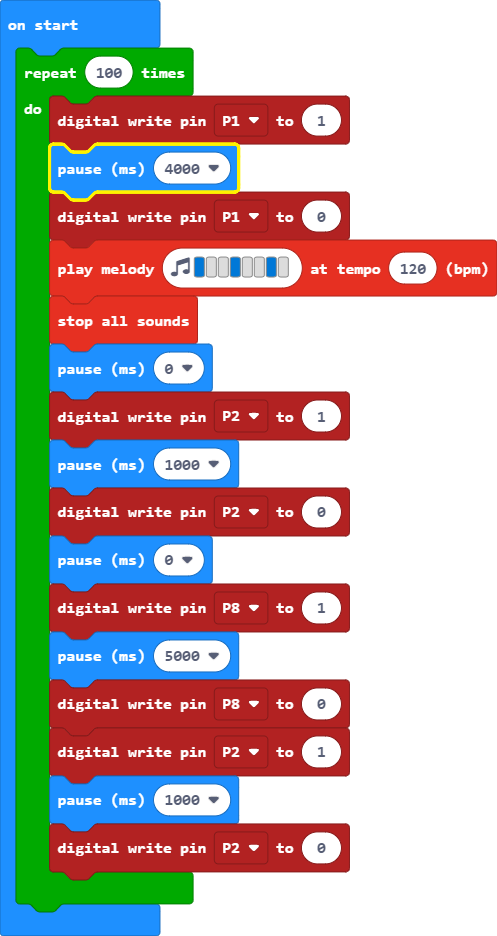
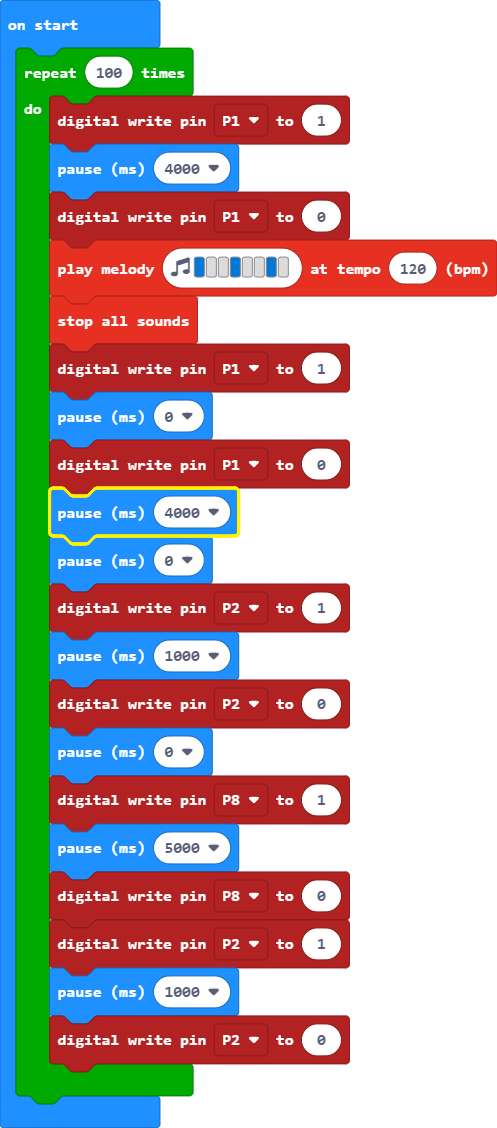
Update main.blocks, main.ts

diff --git a/main.ts b/main.ts
@@ -4,6 +4,10 @@ for (let index = 0; index < 100; index++) {
     pins.digitalWritePin(DigitalPin.P1, 0)
     music.playMelody("E - - E - - E - ", 120)
     music.stopAllSounds()
+    pins.digitalWritePin(DigitalPin.P1, 1)
+    basic.pause(0)
+    pins.digitalWritePin(DigitalPin.P1, 0)
+    basic.pause(4000)
     basic.pause(0)
     pins.digitalWritePin(DigitalPin.P2, 1)
     basic.pause(1000)
